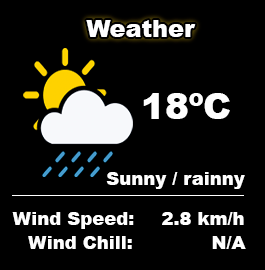
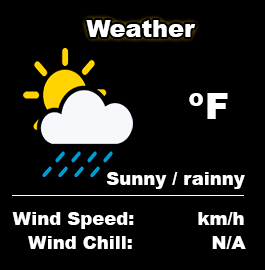
starting wind chill

diff --git a/chamber/index.html b/chamber/index.html
@@ -69,7 +69,14 @@
                 <p>This Monday, at 4:30 p.m., the grand opening of the Elvira shoes store</p><span class="moreInfo">more info...</span>
             </div>
             <div class="wheader">
-                <img src="images/weather.png" alt="weather information">
+                <!--<img src="images/weather.png" alt="weather information">-->
+                <h2>Weather</h2>
+                <div class="weatherImage">
+                    <img src="images/weather2.png">
+                </div>
+                <span class="temperature">38</span><span class="tempUnits">ºF</span>
+                <p>Wind Speed: </p> <span class="windSped">4.3</span><span class="speedUnits">mph</span>
+                <p>Wind Chill: </p> <span class="chill"></span>
             </div>
             <div class="news">
                 <h2>News release</h2>
@@ -94,7 +101,7 @@
         <footer>
             <div class="footerLogo">
                 <picture>
-                    <img src="images/logo.png" alt="Gijon Chamber of Commerce Logo">
+                    <img src="images/logo.webp" alt="Gijon Chamber of Commerce Logo">
                 </picture>
                 <section class="footerText">
                     <div class="footer1stPart">

diff --git a/chamber/css/base.css b/chamber/css/base.css
@@ -103,6 +103,12 @@ nav ul.open {
   font-size: 28px;
 }
 
+.temperature,
+.tempUnits {
+  font-size: 48px;
+  margin-top: -150px;
+}
+
 header {
   background-color: var(--primary-color);
   padding: 5px 0;
@@ -290,6 +296,10 @@ span#currentDate {
 }
 .weather {
   grid-area: 3 / 1 / 4 / 2;
+}
+
+.weatherImage {
+  float: left;
 }
 
 .moreInfo {
